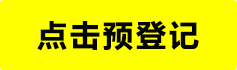
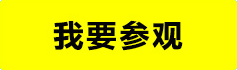
bug

diff --git a/ISPO_H5/css/page1.css b/ISPO_H5/css/page1.css
@@ -9,8 +9,7 @@
 .swiper_3_3{margin-top: 3%;}
 .swiper_3_4{margin-top: 3%;}
 .swiper1_bg1_box1{width: 12%;top: 73.688px;left: 50%;position: absolute;}
-.finger_1{width: 4%;bottom: 28px;left: 72.5%;position: absolute;animation:finger1 1s linear 0s infinite normal forwards;-webkit-animation:finger1 1s linear 0s infinite normal forwards;}
-.finger_2{width: 4%;bottom: 14px;left: 77%;position: absolute;animation:finger2 1s linear 0s infinite normal forwards;-webkit-animation:finger2 1s linear 0s infinite normal forwards;}
+.finger{width: 16%;bottom: 14px;left: 72.5%;position: absolute;animation:finger1 1s linear 0s infinite normal forwards;-webkit-animation:finger1 1s linear 0s infinite normal forwards;}
 .swiper1_bg1_box2{width: 7%;top: 98.250px;left: 70%;position: absolute;}
 .swiper1_bg1_box3{width: 5%;top: 69px;left: 100.2%;position: absolute;}
 .slide-1{background: url(../img/page1/background_1.jpg);background-size: cover;}
@@ -25,7 +24,3 @@
 @-webkit-keyframes cloud1{0%{-webkit-transform:translate(0,0);}100% {-webkit-transform:translate(-170%,0);}}
 @keyframes cloudend{0%{transform:translate(-170%,0);}50%  {transform:translate(-184%,0);}100% {transform:translate(-170%,0);}}
 @-webkit-keyframes cloudend{0%{-webkit-transform:translate(-170%,0);}50%   {-webkit-transform:translate(-184%,0);}100%  {-webkit-transform:translate(-170%,0);}}
-@keyframes finger1{0%{transform:translate(0,3px);}50%  {transform:translate(0px,0);}100% {transform:translate(0,3px);}}
-@-webkit-keyframes finger1{0%{-webkit-transform:translate(0,3px);}50%   {-webkit-transform:translate(0,0);}100%  {-webkit-transform:translate(0,3px);}}
-@keyframes finger2{0%{transform:translate(0,-3px);}50%  {transform:translate(0px,0);}100% {transform:translate(0,-3px);}}
-@-webkit-keyframes finger2{0%{-webkit-transform:translate(0,-3px);}50%   {-webkit-transform:translate(0,0);}100%  {-webkit-transform:translate(0,-3px);}}

diff --git a/ISPO_H5/page1.html b/ISPO_H5/page1.html
@@ -40,8 +40,8 @@
 					            		<img class="swiper1_bg1_box1 cloud-icon1" src="img/page1/cloud1.png">
 					            		<img class="swiper1_bg1_box2 cloud-icon2" src="img/page1/cloud2.png">
 					            		<img class="swiper1_bg1_box3 cloud-icon3" src="img/page1/cloud3.png">
-		            					<img class="finger_1" src="img/page1/arr1.png"></>
-		            					<img class="finger_2" src="img/page1/arr2.png"></>
+		            					<img class="finger" src="img/page1/pull.png">
+		            					
 					            		
 					            	</div>
 					            	<div class="bg_2"></div>
@@ -125,7 +125,7 @@
 				positionY = e.originalEvent.changedTouches[0].clientY;
 				return false;
 			}).bind("touchmove", function(e){
-
+				$('.finger').hide();
 				var endY = e.originalEvent.changedTouches[0].clientY;
 				_top = current + endY - positionY;
 				if(_top < 20){

diff --git a/ISPO_H5/css/page5.css b/ISPO_H5/css/page5.css
@@ -24,7 +24,8 @@
 .slider-4{background: url(../img/page5/background_4.jpg);background-size: cover;z-index: 2;}
 .slider-5{background: url(../img/page5/background_5.jpg);background-size: cover;z-index: 2;}
 .jiangban1{position: absolute;top: 30%;left: 20%;width: 72%;}
-.click{position: absolute;top: 20%;left: 0%;width: 37%;z-index: 6;}
+.click{position: absolute;top: 20%;left: 20%;width: 37%;z-index: 6;}
+.click-me{position: absolute;top: 23%;left: 45%;width: 21%;z-index: 6;}
 .huanchuan{opacity: 0;-webkit-opacity:0;position: absolute;top:19%;left: -8%;width: 112%;transform:translateZ(0);-webkit-transform:translateZ(0);}
 .huanchuan.show{animation:huachuan 0.5s linear 0s 1 normal forwards;-webkit-animation:huachuan 0.5s linear 0s 1 normal forwards;}
 .niao{opacity: 0;-webkit-opacity:0;position: absolute;top: 5%;left: 5%;width: 40%;}

diff --git a/ISPO_H5/css/page3.css b/ISPO_H5/css/page3.css
@@ -6,6 +6,7 @@
 .slider-5{background: url(../img/page3/background_5.jpg);background-size: cover;}
 .woman{position: absolute;top: 25%;left: 21%;width: 60%;z-index: 5;}
 .click{position: absolute;top: 7%;left: 3%;width: 31%;z-index: 6;}
+.click-me{position: absolute;top: 1%;left: 25%;width: 17%;z-index: 6;}
 .weijin{position: absolute;top: 10%;left: 60%;width: 18%;z-index: 6;animation:weijin 2s linear 0s infinite normal forwards;-webkit-animation:weijin 2s linear 0s infinite normal forwards;}
 @keyframes weijin{0%   {transform:rotate(30deg);}50% {transform:rotate(0);}100% {transform:rotate(30deg);}}
 @-webkit-keyframes weijin /* Safari and Chrome */{0%   {-webkit-transform:rotate(30deg);}50% {-webkit-transform:rotate(0deg);}100% {;-webkit-transform:rotate(30deg);}}

diff --git a/ISPO_H5/page3.html b/ISPO_H5/page3.html
@@ -47,6 +47,7 @@
 						            	<img class="woman_dong" src="img/page3/1.gif" />
 					            	</div>
 					            	<img class="click" src="img/page3/click.gif" />
+					            	<img class="click-me" src="img/page3/click.png" />
 					            	<img class="cover"src="img/page3/cover.png">
 					            	
 

diff --git a/ISPO_H5/page5.html b/ISPO_H5/page5.html
@@ -57,6 +57,7 @@
 							            	<img class="cube7 cube" src="img/common/cube_gif2.gif" />
 							            	
 					            			<img class="click" src="img/page5/click.gif" />
+					            			<img class="click-me" src="img/page5/click.png" />
 
 						            	</div>
 						            	
